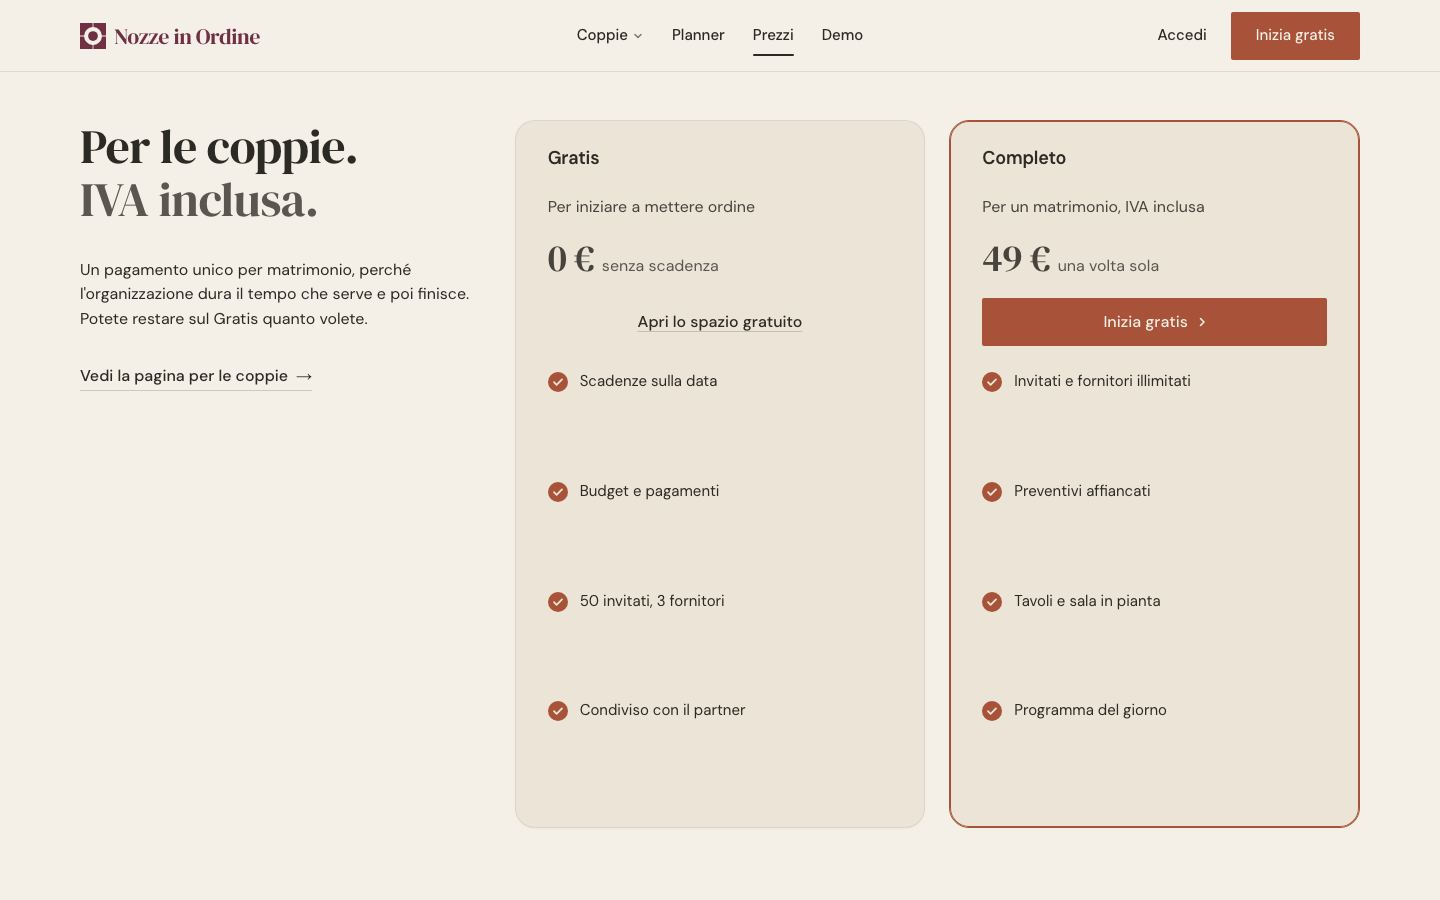
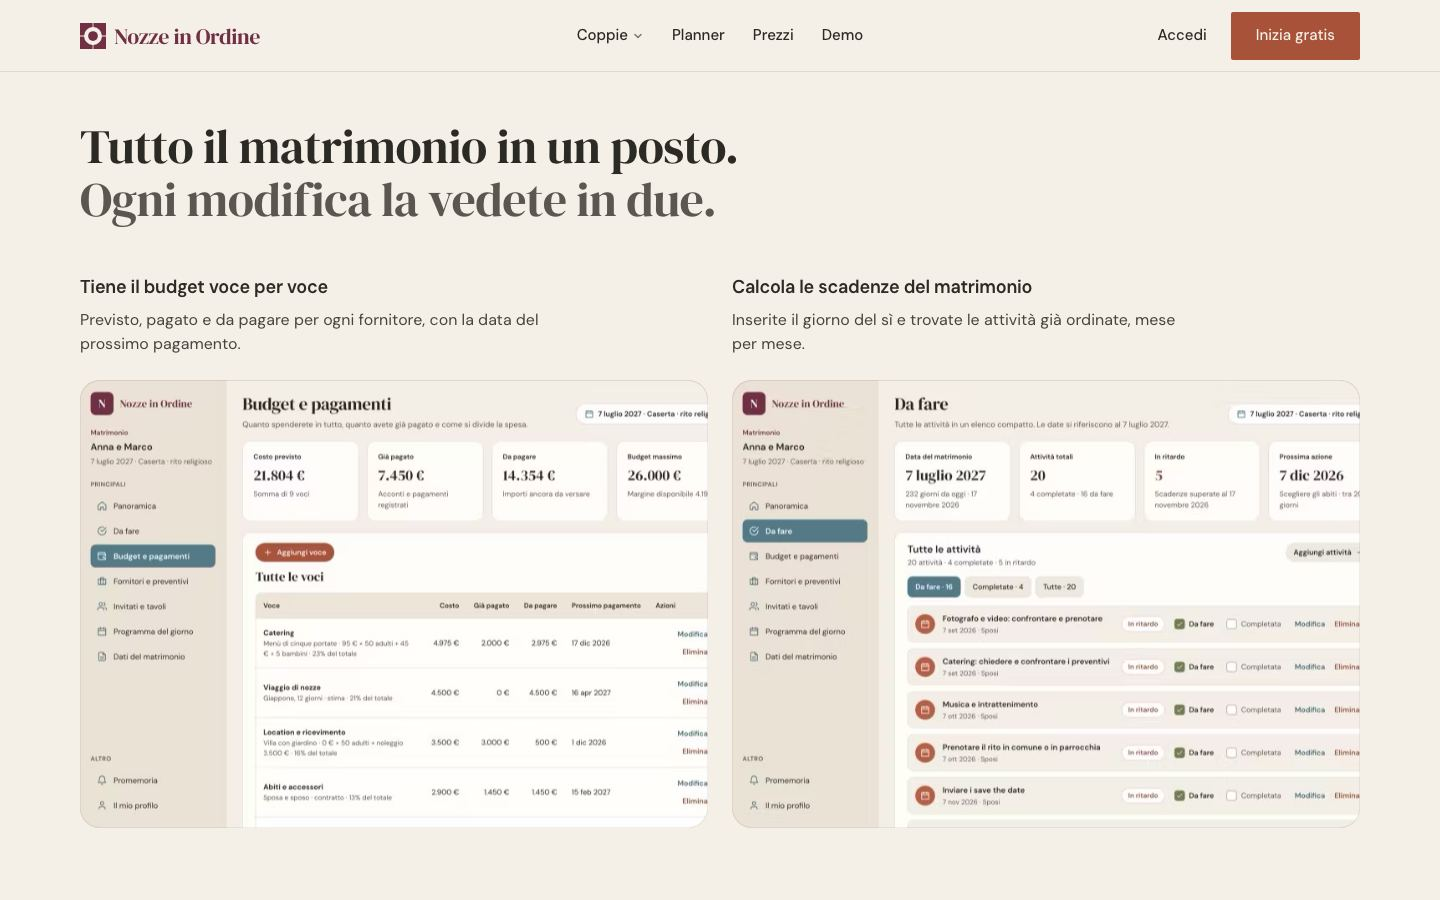
Un solo raggio d'angolo per tutte le foto e le schermate

diff --git a/site/cookie.html b/site/cookie.html
@@ -40,6 +40,9 @@
 .nav__logo svg { width: 26px; height: 26px; fill: #702f43; flex: none; }
 .nav__logo { color: #702f43; }
 .app-shot { object-position: left top; }
+/* un solo raggio per tutte le foto e le schermate (scelta di Felice): quello delle card */
+.hero__media, .frame, .develop, .mo-pc__visuals, .mo-pc__visual, .panel, .menu-card .panel { border-radius: var(--r-lg); overflow: hidden; }
+:is(.hero__media, .frame, .develop, .mo-pc__visuals, .mo-pc__visual, .panel) img { border-radius: inherit; }
 .rows__name small { display: block; margin-top: var(--s-1); font: 400 var(--t-small)/1.5 var(--font-text); color: var(--muted); }
 .rows__value { text-align: right; }
 .panel:has(> .app-shot) { --p-h: 340px; }

diff --git a/site/coppie.html b/site/coppie.html
@@ -40,6 +40,9 @@
 .nav__logo svg { width: 26px; height: 26px; fill: #702f43; flex: none; }
 .nav__logo { color: #702f43; }
 .app-shot { object-position: left top; }
+/* un solo raggio per tutte le foto e le schermate (scelta di Felice): quello delle card */
+.hero__media, .frame, .develop, .mo-pc__visuals, .mo-pc__visual, .panel, .menu-card .panel { border-radius: var(--r-lg); overflow: hidden; }
+:is(.hero__media, .frame, .develop, .mo-pc__visuals, .mo-pc__visual, .panel) img { border-radius: inherit; }
 .rows__name small { display: block; margin-top: var(--s-1); font: 400 var(--t-small)/1.5 var(--font-text); color: var(--muted); }
 .rows__value { text-align: right; }
 .panel:has(> .app-shot) { --p-h: 340px; }

diff --git a/site/index.html b/site/index.html
@@ -41,6 +41,9 @@
 .nav__logo svg { width: 26px; height: 26px; fill: #702f43; flex: none; }
 .nav__logo { color: #702f43; }
 .app-shot { object-position: left top; }
+/* un solo raggio per tutte le foto e le schermate (scelta di Felice): quello delle card */
+.hero__media, .frame, .develop, .mo-pc__visuals, .mo-pc__visual, .panel, .menu-card .panel { border-radius: var(--r-lg); overflow: hidden; }
+:is(.hero__media, .frame, .develop, .mo-pc__visuals, .mo-pc__visual, .panel) img { border-radius: inherit; }
 .rows__name small { display: block; margin-top: var(--s-1); font: 400 var(--t-small)/1.5 var(--font-text); color: var(--muted); }
 .rows__value { text-align: right; }
 .panel:has(> .app-shot) { --p-h: 340px; }

diff --git a/site/planner.html b/site/planner.html
@@ -40,6 +40,9 @@
 .nav__logo svg { width: 26px; height: 26px; fill: #702f43; flex: none; }
 .nav__logo { color: #702f43; }
 .app-shot { object-position: left top; }
+/* un solo raggio per tutte le foto e le schermate (scelta di Felice): quello delle card */
+.hero__media, .frame, .develop, .mo-pc__visuals, .mo-pc__visual, .panel, .menu-card .panel { border-radius: var(--r-lg); overflow: hidden; }
+:is(.hero__media, .frame, .develop, .mo-pc__visuals, .mo-pc__visual, .panel) img { border-radius: inherit; }
 .rows__name small { display: block; margin-top: var(--s-1); font: 400 var(--t-small)/1.5 var(--font-text); color: var(--muted); }
 .rows__value { text-align: right; }
 .panel:has(> .app-shot) { --p-h: 340px; }

diff --git a/site/prezzi.html b/site/prezzi.html
@@ -40,6 +40,9 @@
 .nav__logo svg { width: 26px; height: 26px; fill: #702f43; flex: none; }
 .nav__logo { color: #702f43; }
 .app-shot { object-position: left top; }
+/* un solo raggio per tutte le foto e le schermate (scelta di Felice): quello delle card */
+.hero__media, .frame, .develop, .mo-pc__visuals, .mo-pc__visual, .panel, .menu-card .panel { border-radius: var(--r-lg); overflow: hidden; }
+:is(.hero__media, .frame, .develop, .mo-pc__visuals, .mo-pc__visual, .panel) img { border-radius: inherit; }
 .rows__name small { display: block; margin-top: var(--s-1); font: 400 var(--t-small)/1.5 var(--font-text); color: var(--muted); }
 .rows__value { text-align: right; }
 .panel:has(> .app-shot) { --p-h: 340px; }

diff --git a/site/privacy.html b/site/privacy.html
@@ -40,6 +40,9 @@
 .nav__logo svg { width: 26px; height: 26px; fill: #702f43; flex: none; }
 .nav__logo { color: #702f43; }
 .app-shot { object-position: left top; }
+/* un solo raggio per tutte le foto e le schermate (scelta di Felice): quello delle card */
+.hero__media, .frame, .develop, .mo-pc__visuals, .mo-pc__visual, .panel, .menu-card .panel { border-radius: var(--r-lg); overflow: hidden; }
+:is(.hero__media, .frame, .develop, .mo-pc__visuals, .mo-pc__visual, .panel) img { border-radius: inherit; }
 .rows__name small { display: block; margin-top: var(--s-1); font: 400 var(--t-small)/1.5 var(--font-text); color: var(--muted); }
 .rows__value { text-align: right; }
 .panel:has(> .app-shot) { --p-h: 340px; }

diff --git a/site/termini.html b/site/termini.html
@@ -40,6 +40,9 @@
 .nav__logo svg { width: 26px; height: 26px; fill: #702f43; flex: none; }
 .nav__logo { color: #702f43; }
 .app-shot { object-position: left top; }
+/* un solo raggio per tutte le foto e le schermate (scelta di Felice): quello delle card */
+.hero__media, .frame, .develop, .mo-pc__visuals, .mo-pc__visual, .panel, .menu-card .panel { border-radius: var(--r-lg); overflow: hidden; }
+:is(.hero__media, .frame, .develop, .mo-pc__visuals, .mo-pc__visual, .panel) img { border-radius: inherit; }
 .rows__name small { display: block; margin-top: var(--s-1); font: 400 var(--t-small)/1.5 var(--font-text); color: var(--muted); }
 .rows__value { text-align: right; }
 .panel:has(> .app-shot) { --p-h: 340px; }
